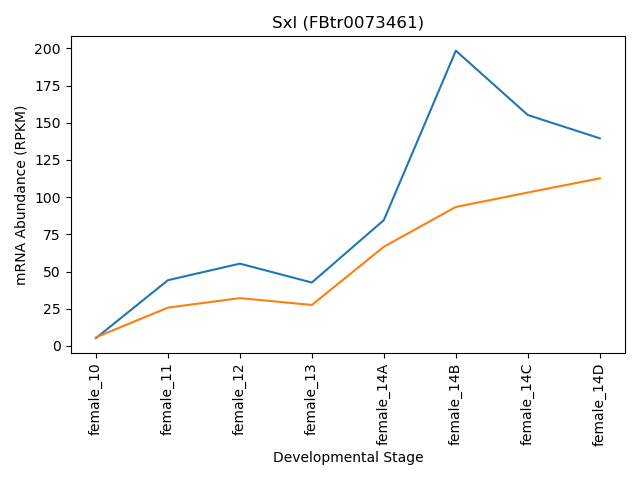
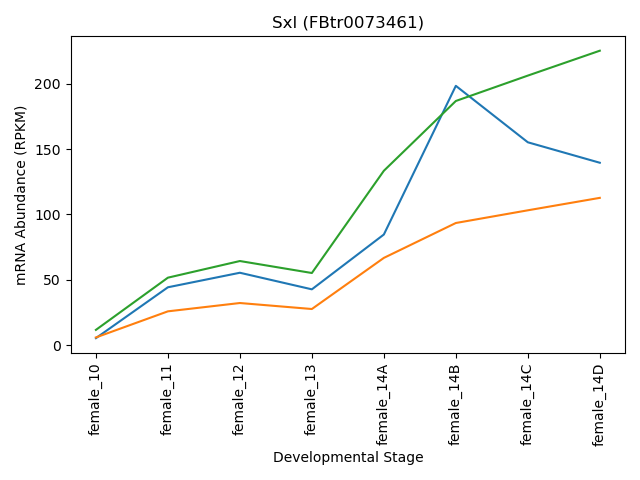
Add answer for exercise 1, step 3

diff --git a/day2-homework/plot-sisA.py b/day2-homework/plot-sisA.py
@@ -18,6 +18,7 @@ Annotate plot (generalize x-axis to 10 not female_10, add title, add x- and y-ax
 
 #For Commit 1: Plot female data
 #For Commit 2: Add male data
+#For Commit 3: Add 2*male data (HINT: 2 * np.array( y ))
 
 transcripts = np.loadtxt( "all_annotated.csv", delimiter=",", usecols=0, dtype="<U30", skiprows=1 )
 print( "transcripts: ", transcripts[0:5] )
@@ -45,20 +46,25 @@ for im in range(len(samples)):
     if "female" not in samples[im]:
         colsm.append(im)
 
+
 # Subset data of interest
 expression = data[row, cols]
 expressionm = data[row, colsm]
+
+expressionm2 = 2 * np.array(expressionm)
 
 # Prepare data
 x = samples[cols]
 y = expression
 ym =expressionm
+ym2 =expressionm2
 
 #Plot data
 fig, ax = plt.subplots()
 ax.set_title( "FBtr0073461" )
 ax.plot( x, y )
 ax.plot(x, ym) #add male data
+ax.plot(x, ym2) #add 2*male data
 
 plt.xticks(rotation=90) #rotate x-axis labels
 ax.set_title( "Sxl (FBtr0073461)" ) #rename title
